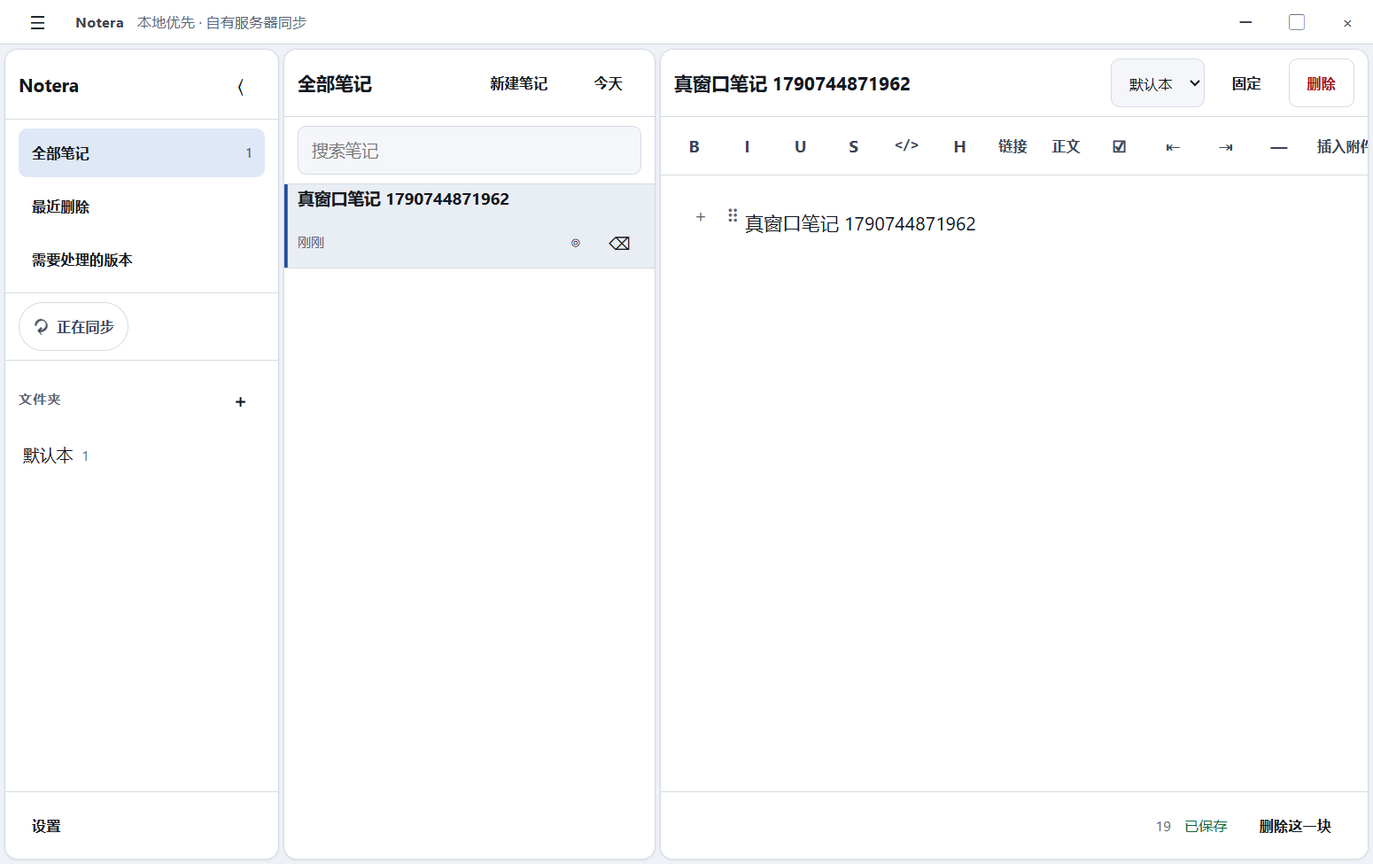
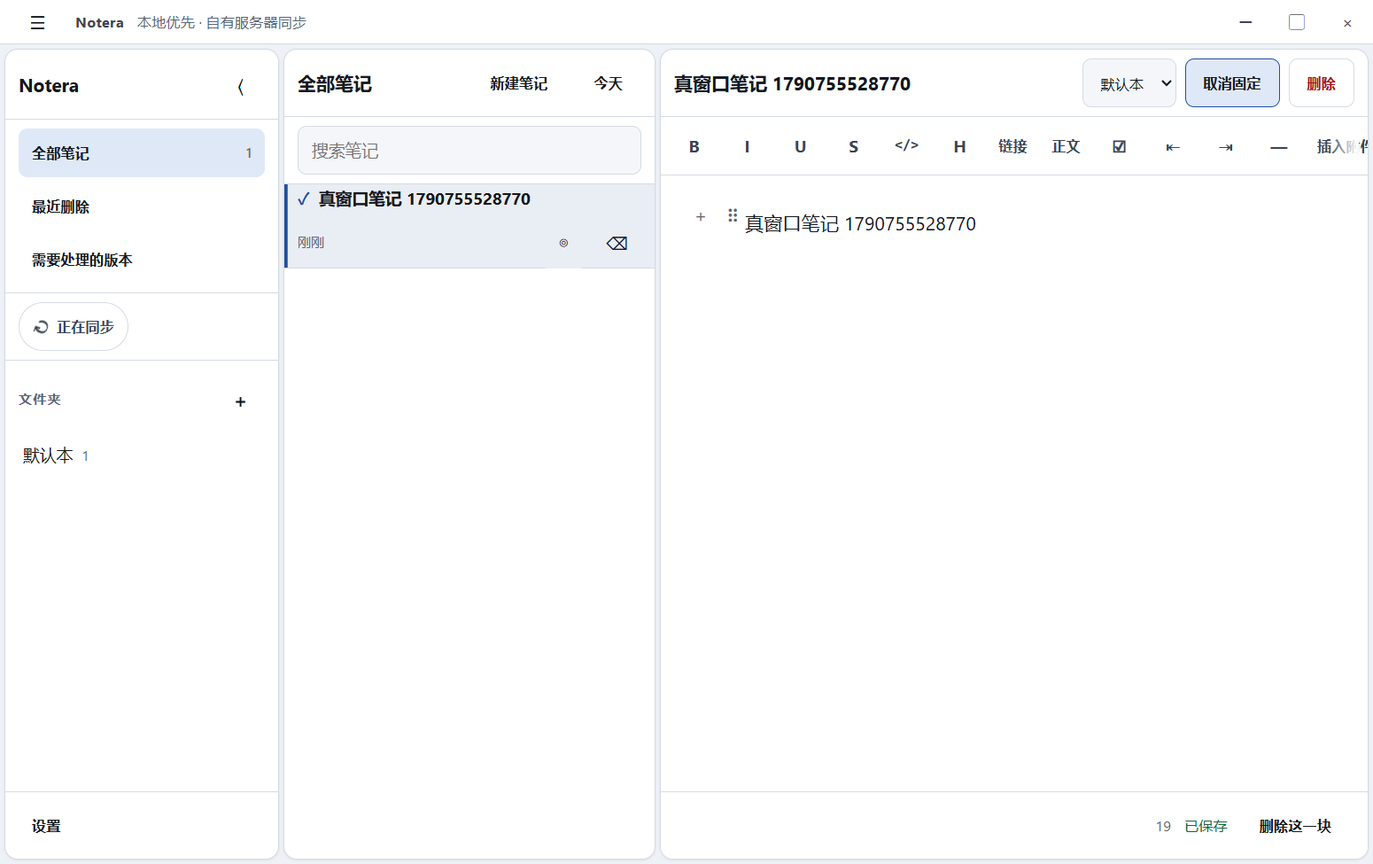
test(window): 真窗口 lane 补一步——真 invoke 通道下点「固定」，那一行必须一起翻面（G32 的壳侧证据，release 10/10）
G32 坏在 `dispatch` 的臂而不是 dev 桥，两条通道共用一条契约 ⇒ 出货的壳里同样坏过
四个版本。dev 桥那一步钉的是界面，这一格钉的是"真 invoke 回来的载荷前端读得到"：
点完等 8 s（条件等待，不是睡固定时长），`aria-label` 与置顶标记必须一起翻面，
只翻一个也算红。0.0.45 这批新编的壳上读数：键名 固定 → 取消固定、置顶标记出现。

现场按纪律核过：exe mtime 16:03 = 当批（16,222,720 B）、VERSIONINFO 实测 0.0.45、
起壳前 17323 与 9223 都确认没人听、跑完按真实 PID taskkill 并删临时数据目录。

一条构建期观察按实记进台账：release 链接期有 linker 警告
`.rsrc merge failure: multiple non-default manifests`（GNU ld 合资源撞到两个 manifest），
不中断构建，而同一份 exe 的版本信息就是 0.0.45 ⇒ 版本没被合丢；CI 的 clippy 看不见它。

同批复跑：黑盒 12/12（当批重编的桥 + 独立空库 .logs/bb45，零读库）；两张证据图刷新，
真窗口那张能直接看见行首的 ✓ 与标题栏那颗「取消固定」。

diff --git a/CHANGELOG.md b/CHANGELOG.md
@@ -39,8 +39,8 @@
 | 版本单源 | 一致（权威 + **四处**派生 + **Cargo.lock**）；四处变异（派生位置偷改、crate 自己写死版本、**lock 慢一个版本**、**移动壳那处偷改**）都能打红 —— 最后一处是 0.0.41 补的：把 `apps/mobile/src-tauri/tauri.conf.json` 漂成 `1.0` 实测红（RC=1）、改回 0.0.41 实测绿（RC=0）。**为什么必须管这一格**：本仓库编译到的 tauri-utils 2.10 在 `config.rs:4101-4117` 明写 "By default version 1.0 is used on Android"，漏掉它 = APK 永远显示 1.0 | `node scripts/check-versions.mjs` |
 | `scripts/verify-diagram.mjs` | 59/59，交互后无运行时错误（**2026-09-29 凌晨在 0.0.32 那棵树上重跑，`EXIT=0`、59 条 PASS、0 条 FAIL**；上一次记的数是 2026-09-28 在 `9e396eb` 上跑的。0.0.33 没动前端与契约图，所以这一条仍是 0.0.32 那次的数，不冒充 0.0.33） |
 | `scripts/verify-app.mjs`（浏览器端到端，真 Rust 核心） | **44/44 —— 2026-09-30 在 0.0.45 这批（缺口 G32 + A11Y-04 那两颗按钮）用当批重编的 debug 桥 + 全新 `.logs/a45` 空库跑，0 条 FAIL**（第 43 步就是这批新加的那一步：列表行的动作按钮 44pt、hover 才露面、**点一下屏幕上那格必须 repaint** —— `aria-label` 与置顶标记要**一起**翻面）。**这条加进去的第一跑就是红的**，而红的不是尺寸：G32 的修法进树之前，同一步红在 `点了「固定」之后 5 秒内：既没出现置顶标记、键名也没翻面 ⇒ 这颗是死的`，其余 43 步全绿 —— 也就是**原有 43 步里没有一步真的看过"固定"有没有反应**。变异自证 **M112**（还原 `32px`）红在两颗按钮的尺寸（`第 1 颗（固定）32×47…；第 2 颗（移到最近删除）40×47…`）、**M113**（`.row-item__pin` 的 `v-if` 恒假）红在 `键名翻了但置顶标记没翻`。<br>**以下是此前各批的读数**：**37/37 —— 2026-09-29 傍晚在 0.0.39（G22 那批）的树上用新编的桥 + 全新 `.logs/e2e-data` 再跑一遍仍 37/37**（此前那一次是修掉那条竞态之后连跑六轮全新数据目录全绿，2026-09-28。**0.0.27 / 0.0.28 / 0.0.29 三批各自用新编的桥 + 全新数据目录重跑过，均 37/37**（0.0.29 第一次跑连的是 19:42 那个**旧桥二进制**——`cargo test` 不会替 lane 编 `notera-cli`，重编之后重跑才算数） —— 这批 Rust 侧动的是 GC 搬运那一步，这条 lane 不跑 GC，它的绿证明的是"没把界面路径带坏"，不是"GC 被端到端验过"（那一格在 `--test attachment_gc`）。此前这条 lane 的台账一直在"挑一次绿的写"：同一个 0.0.22 树上七轮里两轮红在「重排落到库里了 —— 加粗没落库」，把那批的 GC 修复撤掉回 HEAD 仍五轮里一轮红在**同一步**，所以它是**既有缺陷而不是本批引入**，红法是 `edit_note rev=N blocks=4 bold=1 → 200` 之后 25 ms 又发一支 `rev=N+1 blocks=4 bold=0 → 200`。根因与修法见上面那条"重新打开不许插队在飞保存"，判据 FT-SAVE-04，变异自证 M47。**修前实测的复现率照原样留在台账里**（`2/7`、`1/5`），不改成"本来就绿"；另外那批还见过一次整条 33/37 的假红（刷新后笔记消失 / 搜索无命中 / 顺序没持久化四条一起红），那是 lane 自己的 readiness：健康检查一返回就开跑，起桥后等满 3 秒就再没复现。其余三十六步全绿，含"删除 → 回收站 → 恢复 → 永久删除"、"含附件的导出 ZIP"、"坏图占位上两颗自救按钮"。lane 同批补了写序列插桩：任何一步红都会把每支 `edit_note` 的 id/rev/块数/带不带标记按时间打出来，这条缺陷就是从那里认出来的。变异自证（lane 自身）：把命令名改成 `import_files_MUTATED` 重新起桥 → 该步红，且"零失败请求"那步直接点名 `POST /cmd/import_files → HTTP 400`。**lane 纪律**：每轮跑之前必须 `taskkill` 再 `rm -rf .logs/e2e-data` 并复查 sqlite 文件真没了 —— 这批第一次 A/B 就是没清库，测的是脏库 + 旧桥，12 步假红） **2026-09-28 深夜在 0.0.30 这批（批量回填那一条改动之后、重编的 0.0.30 桥）上重跑仍 37/37**。顺手记一条工装账：这一批第一次跑只有 **8/37**，红的是 `ERR_CONNECTION_REFUSED` —— 桥没起（这条 lane 的头部写着"前置由调用方起"），不是产品的回归；按 lane 自己写的起法把桥 + 空目录起起来，同一条命令就是 37/37。 **2026-09-29 凌晨在 0.0.31（错误码那批字面量化 + 三条文案补齐）上重跑仍 37/37**。 **2026-09-29 深夜在 0.0.41（日记那批）上重跑 37/37**（当批重编的 debug 桥 + `.logs/e2e-data` 空库；第一次是 **35/37**，红在那两条按 `DATA_DIR` 默认值读盘的门禁 —— 我把桥起在了别的目录，是现场没起对，不是产品坏；改回默认目录 + 显式 `DATA_DIR` 就 37/37，这条账记在 0.0.41 那一条里）。 |
-| `scripts/verify-blackbox.mjs`（§23 纯黑盒：只用界面，零 `/cmd/*`） | **10/10** —— 曾是**不稳定门禁**（连跑三轮 10/10、4/10、4/10；只修 hydrate 那一版仍四轮 1 绿 3 红）。定位并修好「在飞保存的旧回包」那条竞态之后**连跑十一轮全绿**（每轮独立空库，含冷缓存六轮）。本轮改完设置页（导入按钮 + 说明列表）与偏好存储后**复跑仍 10/10**，且新增的浏览器 lane 步骤同库并行无冲突。**2026-09-28 在 `9e396eb` 上再跑一遍仍 10/10**，凭据那批（0.0.29，含账户配置路径的改动）用重新编译的桥再跑一遍仍 10/10（桥起在独立空库，判定只看屏幕，零读库） **2026-09-28 深夜在 0.0.30 上重跑 10/10**（含"插入图片"那一步，也就是新那条批量回填路真的在浏览器里跑过一遍）。这一批第一次跑是 **9/10**，红在第一步"需要一座空库" —— 用的是 `verify-app` 刚灌过 4 条笔记的那个目录；换成独立空库重起桥就 10/10。**这是现场脏，不是产品坏**，按 lane 头部那句办才对。 **2026-09-29 凌晨在 0.0.31 上再跑一遍仍 10/10**（独立空库 + 重编的桥，两步现场都按 lane 头部写的起法来）。 **2026-09-29 深夜在 0.0.41 这棵树上 11/11**（第 7 步是新加的「今天」那一步：只看屏幕判"标题以当天日期开头的恰好一行 + 刚打的字还在"；重编的桥 + 独立空库 `C:\...\Temp\bb-data4`）。**这条 lane 同批自己红过一次，而且红得有价值**：第一版判据写的是"编辑器文字**以日期开头**"，而 `editor-doc` 的 innerText 里带着块把手那两颗字形（`+ ⠿ `）→ 红在我的预期而不是产品；改成"含当天日期 + 只数标题那一行"之后绿。紧接着**变异 M104**（把核心识别规则还原成"日期 + 空格"）让它红在「标题以 2026-09-29 开头的行有 2 行」而其余十步照旧绿 —— 这条判据是有力气的。 **同批深夜再加一步（BB-12，备忘录的勾）**：这条 lane 此前从没点过 `role="checkbox"`，"可勾选"那一格只有合并层判据；新第 8 步判"刚打出来不许是勾着的 → 点一下变勾 → 刷新重开还是勾着"，**变异 M106**（`blocksToDoc` 里 `delete attrs.checked`）让它红在「刷新重开之后勾丢了」而其余十一步照旧绿，整条 **12/12**。**CI 那边当夜回填**：`acfab0a`（0.0.31 的代码树，含 0.0.30 全部改动）在 GitHub 的 runner 上 **success** —— 这批新增的两条门禁（arch-check 第 30 条、前端依赖审计）都在那一跑里过了；结论查的是 `github.com/fwd001/Noto/actions` 那个网页 —— 未认证的 API 配额被我自己高频轮询打空过一次（网页不吃那份配额，一次读回全部） |
-| `scripts/verify-tauri-window.mjs`（真窗口，走真 `invoke`） | **release 9/9 在 0.0.32、0.0.33、0.0.34、0.0.35、0.0.36、0.0.37、0.0.38、0.0.39、0.0.40、0.0.41、**0.0.43** 十一个壳上各跑一次**（**0.0.43 那次是 2026-09-30 本机跑的**：按 CI 同一条命令重出 `--bundles nsis,msi`，`notera-desktop.exe` mtime **13:06** = 打进那两个包的同一个壳（16,225,792 B，与 `msiexec /a` 解出来的那份字节一致），起壳前核过 17323/9223 都没人听、跑完 `taskkill` 带走壳并删掉临时数据目录；同一次里 `17323/health` = HTTP 000 / curl 退出 7）。**0.0.42 没有本机壳**（那批只动前端，出货包由 CI 出）；0.0.41 那次是 2026-09-29 深夜在日记那批的树上跑的：`notera-desktop.exe` mtime **20:38** = 打进 `Notera_0.0.41_*` 那两个包的同一个壳 —— 这一批的包**重出过一次**，因为 20:14 那一对编在"「今天」在别的文件夹视图里按了看不见"那条修法进树之前，前端变了就不许拿旧包冒充新树；起壳前先把占着 17323 的 debug 桥按真实 PID kill 掉 —— 第 9 步判的就是"这个端口没人听"，桥还在就会假红；跑完 `taskkill` 带走壳、临时数据目录已删。0.0.40 那次是 2026-09-29 晚在 G24 那批的树上跑的，同一次里 `17323/health` = HTTP 000；2026-09-29；五批都**重编了 release 壳**，并且都核过 exe 的 mtime 是当批的 —— 见下面那条"旧壳"提醒的同一条纪律；0.0.34 实测 11:23、0.0.35 实测 12:16、0.0.36 实测 13:00、0.0.37 实测 13:27、**0.0.38 实测 14:48 —— 这一批动了同步引擎与冲突裁决，是真窗口那 9 步里唯一没覆盖到的层，所以这一栏的绿只算"壳与界面没坏"，同步语义的绿在 workspace 那 590 条与两条两设备 lane 上**）。六次的第 4 步都是托盘/全局快捷键/原生菜单/通知**按注册结果**全 true，新建笔记真落 SQLite 且列表读回；另外每次起完 release 壳都 curl 过一次 `17323/health`：**连接被拒（HTTP 000 / curl 退出码 7）** —— "dev 桥只关在 debug 构建里"在这六个新包上都成立（0.0.34 那一次是 11:39 现场起壳、curl、再 `taskkill` 的，壳当时进程确实在跑：kill 打掉了 PID 96964；0.0.35 那一次是 12:18 同一套做法 —— 起壳后 `tasklist` 数到 1 个 `notera-desktop.exe`，curl 回 000 / 退出码 7，然后 kill，跑完的临时数据目录已删）；0.0.36 那一次同法（exe mtime 13:00、`17323/health` 依旧 000/7）。**0.0.36 第一次跑是 8/9**：红在第 7 步"真窗口里点这条笔记 → 正文显示"，失败消息里那个"预期正文"就是一个换行符，而同一个壳、同一套空库现场立刻重跑就是 **9/9**（控制台零 error）—— 这是 **lane 自己的不稳定步骤**（选中到编辑器渲染之间没等够），不是产品回归，按实记在这里，不改写成"从来没红过"；解除办法是给那一步加条件等待而不是重试到绿。**同日已做掉（任务 #69）**：那一步现在用 `page.waitForFunction` 等正文真的出现（8 s 超时、150 ms 轮询，U+00A0 折回 U+0020 再比），超时仍然算失败；改完在同一份 0.0.37 release 壳上**连跑两轮都 9/9**，而变异 **M85**（把等待的目标文字换成不可能出现的串）红在 `TimeoutError: page.waitForFunction: Timeout 8000ms exceeded`、8/9 —— 这道等待是有门闩的，不是把失败睡成通过。<br>**下面那句起是本批之前的旧记录**（debug 那一档 0.0.32 / 0.0.33 / 0.0.34 / 0.0.35 / 0.0.36 / 0.0.37 都没重编，它的 9/9 仍属 0.0.31 之前那批）： debug **9/9**（2026-09-28 在当前 HEAD 上重跑）且 **release 9/9（本批重编 release 壳后重测，不再是"沿用上一批"）**：内嵌资源 `http://tauri.localhost/`、真 `invoke`、新建笔记真落 SQLite 且列表读回、托盘与全局快捷键按**注册结果**为 true、交互期间控制台零 error。第 3 步是新增那一步（在跑着的壳里读 `platform_caps`）。**0.0.28 这批在真正打进 `.msi` 的那同一个 release exe 上再跑一遍，仍 9/9**。<br>**⚠ 跑之前必须清残留**（同 4.1 那条）：上一次启动留下的 `notera-desktop.exe` / WebView2 进程会占着调试端口，lane 连到的是那份残留（页面 `about:blank`）而不是新起的壳 —— 实测这样红过一轮 6 步。lane 自己的第 2 步（`__TAURI_INTERNALS__` 在不在）就是抓这个的 **2026-09-29 凌晨在 0.0.31 上重跑 release 那一档：先 `cargo build --release -p notera-desktop` 重编壳，再起窗口（CDP 9223 + 独立数据目录），同一条命令 9/9**；debug 那一档 0.0.31 没重编，沿用上一批的 9/9，两档分开写。 |
+| `scripts/verify-blackbox.mjs`（§23 纯黑盒：只用界面，零 `/cmd/*`） | **10/10** —— 曾是**不稳定门禁**（连跑三轮 10/10、4/10、4/10；只修 hydrate 那一版仍四轮 1 绿 3 红）。定位并修好「在飞保存的旧回包」那条竞态之后**连跑十一轮全绿**（每轮独立空库，含冷缓存六轮）。本轮改完设置页（导入按钮 + 说明列表）与偏好存储后**复跑仍 10/10**，且新增的浏览器 lane 步骤同库并行无冲突。**2026-09-28 在 `9e396eb` 上再跑一遍仍 10/10**，凭据那批（0.0.29，含账户配置路径的改动）用重新编译的桥再跑一遍仍 10/10（桥起在独立空库，判定只看屏幕，零读库） **2026-09-28 深夜在 0.0.30 上重跑 10/10**（含"插入图片"那一步，也就是新那条批量回填路真的在浏览器里跑过一遍）。这一批第一次跑是 **9/10**，红在第一步"需要一座空库" —— 用的是 `verify-app` 刚灌过 4 条笔记的那个目录；换成独立空库重起桥就 10/10。**这是现场脏，不是产品坏**，按 lane 头部那句办才对。 **2026-09-29 凌晨在 0.0.31 上再跑一遍仍 10/10**（独立空库 + 重编的桥，两步现场都按 lane 头部写的起法来）。 **2026-09-29 深夜在 0.0.41 这棵树上 11/11**（第 7 步是新加的「今天」那一步：只看屏幕判"标题以当天日期开头的恰好一行 + 刚打的字还在"；重编的桥 + 独立空库 `C:\...\Temp\bb-data4`）。**这条 lane 同批自己红过一次，而且红得有价值**：第一版判据写的是"编辑器文字**以日期开头**"，而 `editor-doc` 的 innerText 里带着块把手那两颗字形（`+ ⠿ `）→ 红在我的预期而不是产品；改成"含当天日期 + 只数标题那一行"之后绿。紧接着**变异 M104**（把核心识别规则还原成"日期 + 空格"）让它红在「标题以 2026-09-29 开头的行有 2 行」而其余十步照旧绿 —— 这条判据是有力气的。 **同批深夜再加一步（BB-12，备忘录的勾）**：这条 lane 此前从没点过 `role="checkbox"`，"可勾选"那一格只有合并层判据；新第 8 步判"刚打出来不许是勾着的 → 点一下变勾 → 刷新重开还是勾着"，**变异 M106**（`blocksToDoc` 里 `delete attrs.checked`）让它红在「刷新重开之后勾丢了」而其余十一步照旧绿，整条 **12/12**。**CI 那边当夜回填**：`acfab0a`（0.0.31 的代码树，含 0.0.30 全部改动）在 GitHub 的 runner 上 **success** —— 这批新增的两条门禁（arch-check 第 30 条、前端依赖审计）都在那一跑里过了；结论查的是 `github.com/fwd001/Noto/actions` 那个网页 —— 未认证的 API 配额被我自己高频轮询打空过一次（网页不吃那份配额，一次读回全部） | **0.0.45 这批（G32）重跑仍 12/12**：当批重编的 debug 桥 + 独立空库 `.logs/bb45`，判定只看屏幕、零 `/cmd/*`、零读库 —— 这一条是"改了 `dispatch` 的臂没把界面路径带坏"的黑盒侧证据 |
+| `scripts/verify-tauri-window.mjs`（真窗口，走真 `invoke`） | **release 10/10 —— 2026-09-30 在 0.0.45 这批新编的壳上跑**（第 8 步是本批新加的：**真 invoke 通道下点「固定」，那一行的 `aria-label` 与置顶标记必须一起翻面**，读数 `键名 固定 → 取消固定，置顶标记出现`）。为什么壳里要再钉一遍：缺口 G32 坏在 `dispatch` 的臂而不是 dev 桥，两条通道共用一条契约 ⇒ 壳里同样坏过四个版本，而"两条通道一个形状"不能只写在注释里。当批核过 exe 的 mtime 是 16:03（这一分钟）、16,222,720 B、VERSIONINFO FileVersion/ProductVersion 都是 **0.0.45**，起壳前 17323 与 9223 都确认没人听，跑完按真实 PID `taskkill` 并删临时数据目录。**一条构建期观察按实记**：release 链接期有一条 linker 警告 `.rsrc merge failure: multiple non-default manifests`（GNU ld 合资源撞到两个 manifest），不中断构建，而同一份 exe 的版本信息实测就是 0.0.45 ⇒ 版本没被合丢；CI 的 clippy 看不见它（只在 release 链接期出）。<br>**此前**：release 9/9 在 0.0.32、0.0.33、0.0.34、0.0.35、0.0.36、0.0.37、0.0.38、0.0.39、0.0.40、0.0.41、**0.0.43** 十一个壳上各跑一次**（**0.0.43 那次是 2026-09-30 本机跑的**：按 CI 同一条命令重出 `--bundles nsis,msi`，`notera-desktop.exe` mtime **13:06** = 打进那两个包的同一个壳（16,225,792 B，与 `msiexec /a` 解出来的那份字节一致），起壳前核过 17323/9223 都没人听、跑完 `taskkill` 带走壳并删掉临时数据目录；同一次里 `17323/health` = HTTP 000 / curl 退出 7）。**0.0.42 没有本机壳**（那批只动前端，出货包由 CI 出）；0.0.41 那次是 2026-09-29 深夜在日记那批的树上跑的：`notera-desktop.exe` mtime **20:38** = 打进 `Notera_0.0.41_*` 那两个包的同一个壳 —— 这一批的包**重出过一次**，因为 20:14 那一对编在"「今天」在别的文件夹视图里按了看不见"那条修法进树之前，前端变了就不许拿旧包冒充新树；起壳前先把占着 17323 的 debug 桥按真实 PID kill 掉 —— 第 9 步判的就是"这个端口没人听"，桥还在就会假红；跑完 `taskkill` 带走壳、临时数据目录已删。0.0.40 那次是 2026-09-29 晚在 G24 那批的树上跑的，同一次里 `17323/health` = HTTP 000；2026-09-29；五批都**重编了 release 壳**，并且都核过 exe 的 mtime 是当批的 —— 见下面那条"旧壳"提醒的同一条纪律；0.0.34 实测 11:23、0.0.35 实测 12:16、0.0.36 实测 13:00、0.0.37 实测 13:27、**0.0.38 实测 14:48 —— 这一批动了同步引擎与冲突裁决，是真窗口那 9 步里唯一没覆盖到的层，所以这一栏的绿只算"壳与界面没坏"，同步语义的绿在 workspace 那 590 条与两条两设备 lane 上**）。六次的第 4 步都是托盘/全局快捷键/原生菜单/通知**按注册结果**全 true，新建笔记真落 SQLite 且列表读回；另外每次起完 release 壳都 curl 过一次 `17323/health`：**连接被拒（HTTP 000 / curl 退出码 7）** —— "dev 桥只关在 debug 构建里"在这六个新包上都成立（0.0.34 那一次是 11:39 现场起壳、curl、再 `taskkill` 的，壳当时进程确实在跑：kill 打掉了 PID 96964；0.0.35 那一次是 12:18 同一套做法 —— 起壳后 `tasklist` 数到 1 个 `notera-desktop.exe`，curl 回 000 / 退出码 7，然后 kill，跑完的临时数据目录已删）；0.0.36 那一次同法（exe mtime 13:00、`17323/health` 依旧 000/7）。**0.0.36 第一次跑是 8/9**：红在第 7 步"真窗口里点这条笔记 → 正文显示"，失败消息里那个"预期正文"就是一个换行符，而同一个壳、同一套空库现场立刻重跑就是 **9/9**（控制台零 error）—— 这是 **lane 自己的不稳定步骤**（选中到编辑器渲染之间没等够），不是产品回归，按实记在这里，不改写成"从来没红过"；解除办法是给那一步加条件等待而不是重试到绿。**同日已做掉（任务 #69）**：那一步现在用 `page.waitForFunction` 等正文真的出现（8 s 超时、150 ms 轮询，U+00A0 折回 U+0020 再比），超时仍然算失败；改完在同一份 0.0.37 release 壳上**连跑两轮都 9/9**，而变异 **M85**（把等待的目标文字换成不可能出现的串）红在 `TimeoutError: page.waitForFunction: Timeout 8000ms exceeded`、8/9 —— 这道等待是有门闩的，不是把失败睡成通过。<br>**下面那句起是本批之前的旧记录**（debug 那一档 0.0.32 / 0.0.33 / 0.0.34 / 0.0.35 / 0.0.36 / 0.0.37 都没重编，它的 9/9 仍属 0.0.31 之前那批）： debug **9/9**（2026-09-28 在当前 HEAD 上重跑）且 **release 9/9（本批重编 release 壳后重测，不再是"沿用上一批"）**：内嵌资源 `http://tauri.localhost/`、真 `invoke`、新建笔记真落 SQLite 且列表读回、托盘与全局快捷键按**注册结果**为 true、交互期间控制台零 error。第 3 步是新增那一步（在跑着的壳里读 `platform_caps`）。**0.0.28 这批在真正打进 `.msi` 的那同一个 release exe 上再跑一遍，仍 9/9**。<br>**⚠ 跑之前必须清残留**（同 4.1 那条）：上一次启动留下的 `notera-desktop.exe` / WebView2 进程会占着调试端口，lane 连到的是那份残留（页面 `about:blank`）而不是新起的壳 —— 实测这样红过一轮 6 步。lane 自己的第 2 步（`__TAURI_INTERNALS__` 在不在）就是抓这个的 **2026-09-29 凌晨在 0.0.31 上重跑 release 那一档：先 `cargo build --release -p notera-desktop` 重编壳，再起窗口（CDP 9223 + 独立数据目录），同一条命令 9/9**；debug 那一档 0.0.31 没重编，沿用上一批的 9/9，两档分开写。 |
 
 复现命令见 `docs/ARCHITECTURE-MAP.md` §8；分领域的验收状态（含 BLOCKED 项的原因与解除条件）见 `docs/IMPLEMENTATION-STATUS.md`。
 

diff --git a/docs/PRODUCTION-READINESS.md b/docs/PRODUCTION-READINESS.md
@@ -36,8 +36,8 @@
 | 空轮代价（PERF-05/14） | 1/1（≤2 请求、≤2 KiB、清单必走 304、PROPFIND ≤1） | `cargo test -p notera-host --test sync_cost` | L3 |
 | 契约图 | 59/59，交互后无运行时错误 | `node scripts/verify-diagram.mjs` | L2 |
 | 浏览器端到端（真 Rust 核心，非 mock） | **44/44**（0.0.45 起多一步：列表那一行的动作按钮 **44pt + hover 才露面 + 点一下屏幕上那格必须 repaint** —— `aria-label` 与置顶标记要一起翻面，只翻一个也算红。这一步是缺口 **G32** 的来源：**加进去的第一跑就红了**，而红的是"没反应"那一支，不是尺寸（`HTTP 200` + 库里真改了 + 屏幕一动不动 ⇒ 回包是 `{"Ok":…}` 而 `applyNoteUpdate` 静默 return）。变异 **M112**（还原 32px）红在两颗按钮尺寸、**M113**（`.row-item__pin` 恒不生成）红在"键名翻了但标记没翻"；修复前的真桥跑同一步红在"没 repaint"那一支 —— 两种红法各钉一层。0.0.44 起多三步：块型菜单要"看得见、点得着、点完块型真的变"（G29）+ 工具条放不下时右缘要有一句话且每颗 Tab 可达（G30）+ **一条通用判据**"任何画得出来的控制，那一下必须落在它自己身上"（这一步当场带出 G31）；0.0.42/0.0.43 那三步断的都是渲染后的几何，不是 `allInnerTexts()`，见缺口 G26/G27/G29/G30。2026-09-30 这一跑是**当批重编的 debug 桥 + 全新 `.logs/a45` 空库**，0 条 FAIL；更早：2026-09-28 修掉那条竞态之后连跑**六轮**全新数据目录全绿，0.0.27 这批用新编的桥 + 全新数据目录重跑仍 37/37）。**这条曾经只写"35/35 / 37/37"而没人数过复现率**：同一个 0.0.22 树七轮里两轮红在「重排落到库里了 —— 加粗没落库」，把那批 GC 修复撤掉回 HEAD 仍五轮里一轮红在**同一步** ⇒ 既有缺陷、非那批引入（那处修复对没有附件的笔记是空转）。红法是同一篇笔记连着两支写：`rev=N bold=1 → 200`，25 ms 后 `rev=N+1 bold=0 → 200` —— **吃掉的是已提交的用户编辑**。根因：`open()` 是"先 `flush()` 再回读"，而 `flush()` 原来只等"待发的那支 debounce"、放过"已经在飞的那支"，回读于是拿到"这次写之前"的快照盖掉本地（`dirty` 那时是 false，既有的本地优先守卫管不到），那支在飞的写落地时按设计发现"正文又变了"，就照被盖掉的版本再写一次。修法一句 `await saveChain`；判据 FT-SAVE-04；变异自证 **M47**（改回修之前的行为 → 红在"标记还在"）。另见过一次整条 33/37 的假红（lane 自己的 readiness：健康检查一返回就开跑；起桥后等满 3 秒未再复现） | `notera-cli serve` + `pnpm dev` + `node scripts/verify-app.mjs` | L4 |
-| 纯黑盒 UAT（§23：只用界面） | **10/10** —— 修好第 3 节那条竞态之后**连跑十一轮全绿**（每轮独立空库；其中六轮是冷 vite 缓存的稳定性加测） | `node scripts/verify-blackbox.mjs` | L4 |
-| 真窗口（走真 `invoke`） | debug **9/9 —— 2026-09-28 在当前 HEAD（`d5cf2ef`）上重跑**（真 `invoke`、内嵌资源 `http://tauri.localhost/`、第 3 步读 `platform_caps` 断言托盘 / 全局快捷键 / 原生菜单 / 通知四项**真的注册上了**、建笔记真落 SQLite 且列表读回、截图 + 控制台零 error）。**release 那 9/9 沿用上一批**，本批没重编 release 壳。<br>踩到一次**假红并记在这里**：第一次跑 6 步红在"`__TAURI_INTERNALS__` 不存在"，根因是**上一次启动残留的 notera-desktop/WebView2 进程还占着调试端口**，lane 连到的是那份残留（`about:blank`）而不是新起的壳；清掉残留 + 换端口后同一条命令 9/9。lane 的第 2 步正是为这种情况准备的，它起作用了 | `cargo build -p notera-desktop` + `NOTERA_DATA_DIR=<空目录>` + `WEBVIEW2_ADDITIONAL_BROWSER_ARGUMENTS=--remote-debugging-port=…` + `node scripts/verify-tauri-window.mjs` | L4 |
+| 纯黑盒 UAT（§23：只用界面） | **12/12 —— 2026-09-30 在 0.0.45 这批重跑**（当批重编的 debug 桥 + 独立空库 `.logs/bb45`，判定只看屏幕、零 `/cmd/*`、零读库）。更早：修好第 3 节那条竞态之后**连跑十一轮全绿**（每轮独立空库；其中六轮是冷 vite 缓存的稳定性加测） | `node scripts/verify-blackbox.mjs` | L4 |
+| 真窗口（走真 `invoke`） | **release 10/10 —— 2026-09-30 在 0.0.45 这批新编的壳上跑**（`target/release/notera-desktop.exe` mtime **16:03** = 当批的，16,222,720 B，VERSIONINFO 实测 FileVersion / ProductVersion 都是 **0.0.45**；起壳前 17323 与 9223 都确认没人听，跑完按真实 PID `taskkill` 并删掉临时数据目录）。第 8 步是本批新加的：**真 invoke 通道下点「固定」，那一行的 `aria-label` 与置顶标记必须一起翻面** —— 读数 `键名 固定 → 取消固定，置顶标记出现（真 invoke + 真 SQLite）`。为什么要在壳里再钉一遍：缺口 **G32** 坏在 `dispatch` 的臂而不是 dev 桥，两条通道共用一条契约 ⇒ 壳里同样坏过，而"两条通道一个形状"这句话不能只写在注释里。证据图 `docs/evidence/app-tauri-window.png` 里能直接看见那行的 ✓ 与标题栏那颗「取消固定」。<br>**一条构建期观察（不是错误，按实记）**：`cargo build --release -p notera-desktop` 会出一条 linker 警告 `.rsrc merge failure: multiple non-default manifests`（GNU ld 合资源时撞到两个 manifest）。它不中断构建，而同一份 exe 的 VERSIONINFO 实测就是 0.0.45 ⇒ 版本没被合丢；CI 的 clippy 看不到它（那条只在 release 链接期出）。<br>debug 那一档 **9/9 —— 2026-09-28 在当前 HEAD（`d5cf2ef`）上重跑**（真 `invoke`、内嵌资源 `http://tauri.localhost/`、第 3 步读 `platform_caps` 断言托盘 / 全局快捷键 / 原生菜单 / 通知四项**真的注册上了**、建笔记真落 SQLite 且列表读回、截图 + 控制台零 error）；**0.0.45 这批没重编 debug 壳，那一档不冒充本批的数**。<br>踩到一次**假红并记在这里**：第一次跑 6 步红在"`__TAURI_INTERNALS__` 不存在"，根因是**上一次启动残留的 notera-desktop/WebView2 进程还占着调试端口**，lane 连到的是那份残留（`about:blank`）而不是新起的壳；清掉残留 + 换端口后同一条命令 9/9。lane 的第 2 步正是为这种情况准备的，它起作用了 | `cargo build -p notera-desktop` + `NOTERA_DATA_DIR=<空目录>` + `WEBVIEW2_ADDITIONAL_BROWSER_ARGUMENTS=--remote-debugging-port=…` + `node scripts/verify-tauri-window.mjs` | L4 |
 | `cargo fmt --all --check` | **退出码 0** —— 代理到位后装了 `rustfmt` 组件（B5 解除）。装上后第一次 `--check` 就报出 **92 个文件**格式漂移，已按纯机械格式化单独提交并复验（tests 487/0、clippy 0/0） | `cargo fmt --all --check` |
 
 复现步骤的单一出处是 `docs/ARCHITECTURE-MAP.md` §8；分领域状态是 `docs/IMPLEMENTATION-STATUS.md`。
